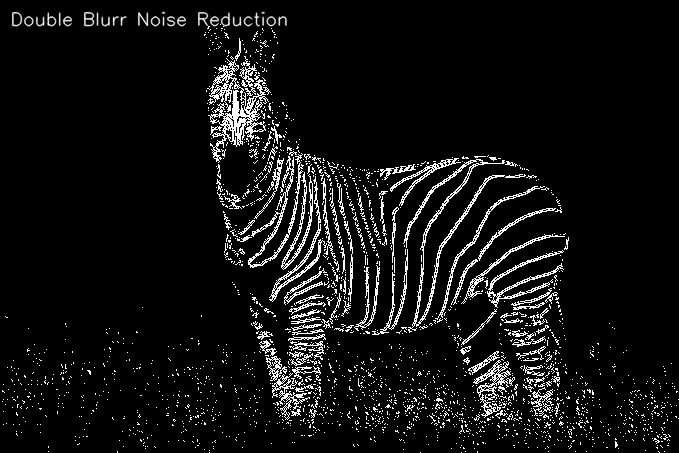
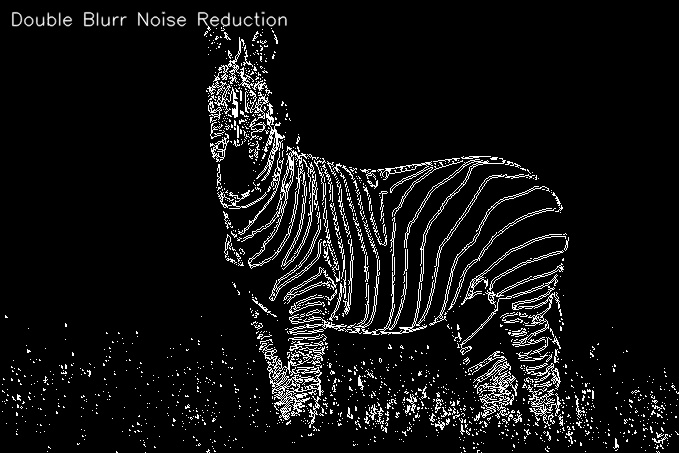
images

diff --git a/MeanBlurrEdgeDetection.py b/MeanBlurrEdgeDetection.py
@@ -70,8 +70,10 @@ overlayLow = EdgeOverlay(image, edgesLow, color=(0, 0, 255))
 edgesHigh = EdgeFilter(scaled, 0.23)
 overlayHigh = EdgeOverlay(image, edgesHigh, color=(0, 255, 0))
 
-doubleBlurr = EdgeFilter(LinearScaling(Difference(MeanBlur(scaled, 3), scaled)), 0.2)
-doubleOverlay = EdgeOverlay(image, doubleBlurr)
+doubleBlurr = EdgeFilter(
+    LinearScaling(Difference(MeanBlur(edgesHigh, 3), edgesHigh)), 0.63
+)
+doubleOverlay = EdgeOverlay(image, doubleBlurr, color=(0, 255, 0))
 
 loss = edgesLow - doubleBlurr
 
@@ -119,6 +121,7 @@ cv2.imwrite("images/generated/Mean-zebra/scaled.jpg", scaled)
 cv2.imwrite("images/generated/Mean-zebra/edges.jpg", edgesHigh)
 cv2.imwrite("images/generated/Mean-zebra/edgesLow.jpg", edgesLow)
 cv2.imwrite("images/generated/Mean-zebra/overlay.jpg", overlayHigh)
+cv2.imwrite("images/generated/Mean-zebra/overlayLow.jpg", overlayLow)
 cv2.imwrite("images/generated/Mean-zebra/doubleBlurr.jpg", doubleBlurr)
 cv2.imwrite("images/generated/Mean-zebra/doubleOverlay.jpg", doubleOverlay)
 cv2.imwrite("images/generated/Mean-zebra/doubleLoss.jpg", loss)
